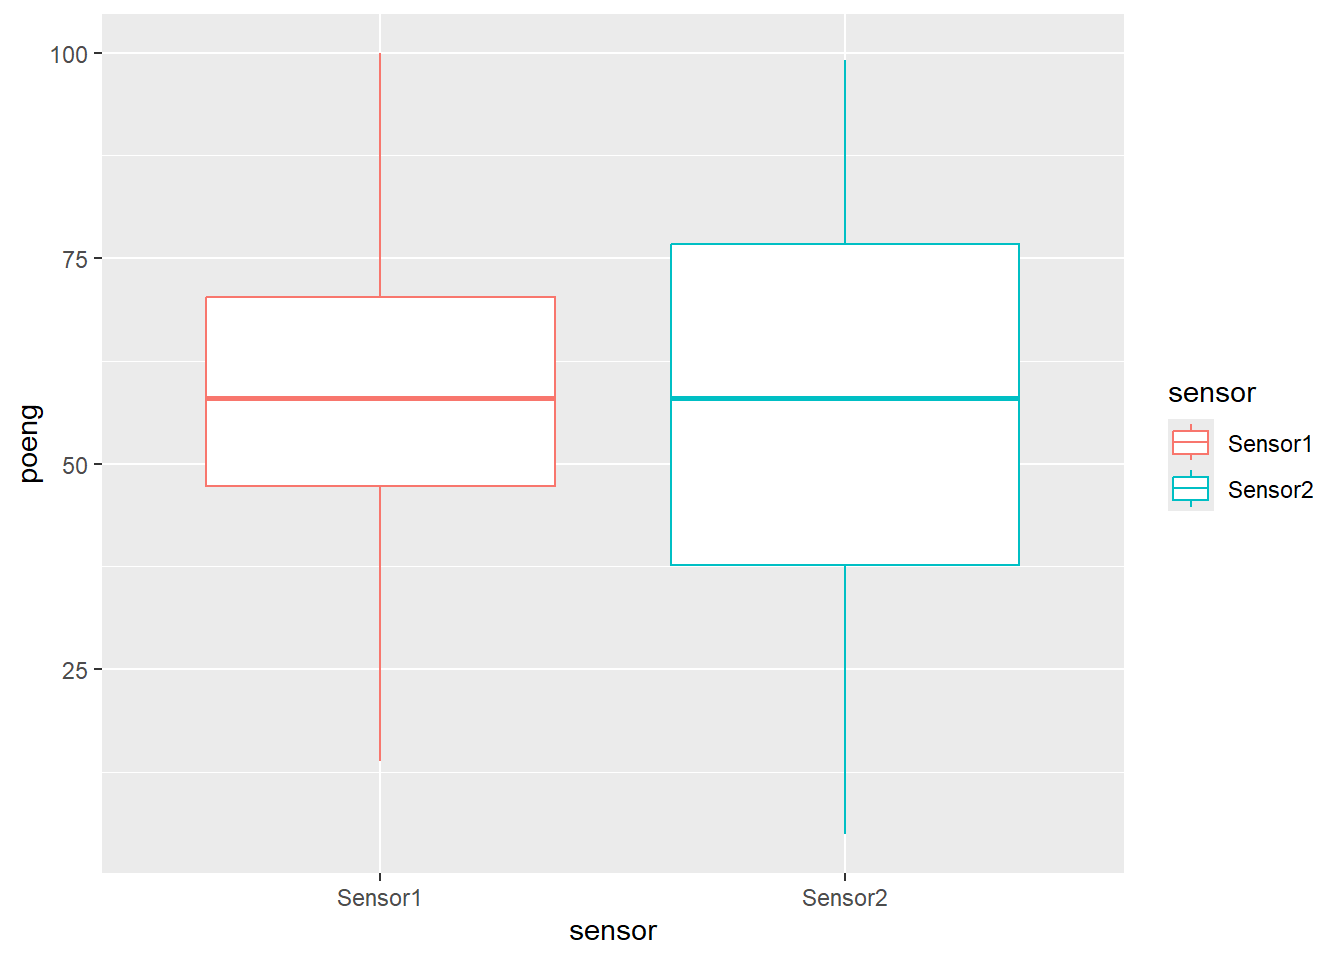
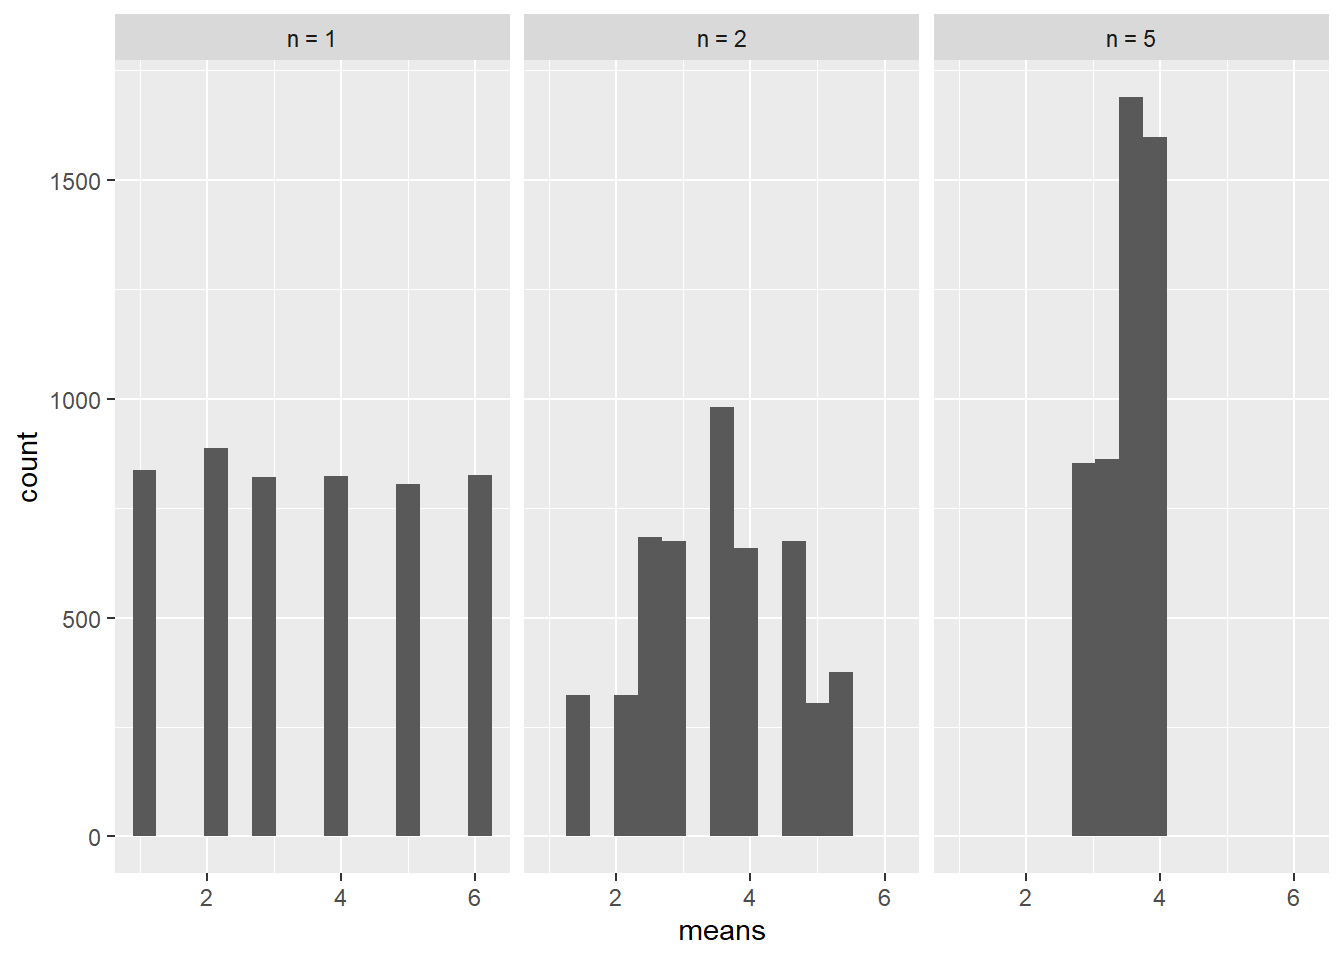
Build

diff --git a/docs/oppgaverdeskriptiv.html b/docs/oppgaverdeskriptiv.html
@@ -263,8 +263,8 @@ code span.wa { color: #60a0b0; font-weight: bold; font-style: italic; } /* Warni
 <div id="oppgaverdeskriptiv" class="section level2 hasAnchor" number="2.3">
 <h2><span class="header-section-number">2.3</span> Oppgaver<a href="oppgaverdeskriptiv.html#oppgaverdeskriptiv" class="anchor-section" aria-label="Anchor link to header"></a></h2>
 <p>Til de fleste oppgavene under ligger det et løsningsforslag som du folder ut ved å trykke på <strong>Løsning</strong>. Rådet vårt er at du først forsøker å løse oppgaven skikkelig på egen hånd, og heller bruker løsningsforslaget etterpå til å kontrollere svaret ditt (eller som en pekepinn dersom du står helt fast). Du lærer langt mer av å bryne deg på oppgaven selv enn av å lese løsningen.</p>
-<div id="standard-oppgaver" class="section level3 hasAnchor" number="2.3.1">
-<h3><span class="header-section-number">2.3.1</span> Standard oppgaver<a href="oppgaverdeskriptiv.html#standard-oppgaver" class="anchor-section" aria-label="Anchor link to header"></a></h3>
+<div id="teorioppgaver" class="section level3 hasAnchor" number="2.3.1">
+<h3><span class="header-section-number">2.3.1</span> Teorioppgaver<a href="oppgaverdeskriptiv.html#teorioppgaver" class="anchor-section" aria-label="Anchor link to header"></a></h3>
 <ol style="list-style-type: decimal">
 <li>Beskriv kort forskjellen mellom deskriptiv statistikk og statistisk inferens.</li>
 </ol>
@@ -382,7 +382,7 @@ Løsning
 <ol start="6" style="list-style-type: decimal">
 <li>MET4 ble et år rettet av to sensorer og et boxplot av poengene de ga sine respektive kandidater var som følger:</li>
 </ol>
-<p><img src="met4_files/figure-html/unnamed-chunk-36-1.png" alt="" width="672" /></p>
+<p><img src="met4_files/figure-html/unnamed-chunk-33-1.png" alt="" width="672" /></p>
 <p>Hva kan du si karakterfordelingen til de to sensorene?</p>
 <details>
 <summary>
@@ -395,7 +395,7 @@ Løsning
 <ol start="7" style="list-style-type: decimal">
 <li>Du er kvalitetsansvarlig for et produkt og samler inn data på levetiden i måneder til produktet. Et histogram over disse dataene ser ut som følger:</li>
 </ol>
-<p><img src="met4_files/figure-html/unnamed-chunk-37-1.png" alt="" width="672" /></p>
+<p><img src="met4_files/figure-html/unnamed-chunk-34-1.png" alt="" width="672" /></p>
 <p>Hva sier histogrammet deg om produktet?</p>
 <details>
 <summary>
@@ -424,7 +424,7 @@ Løsning
 <li>Betrakt spredningsplottene for datasett a-d under, og par hvert datasett med en av de følgende korrelasjonene:</li>
 </ol>
 <p><span class="math display">\[r_1 = -0.37,\quad r_2 = 0.81,\quad r_3 = -0.02,\quad r_4 = -0.96 \]</span></p>
-<p><img src="met4_files/figure-html/unnamed-chunk-38-1.png" alt="" width="672" /></p>
+<p><img src="met4_files/figure-html/unnamed-chunk-35-1.png" alt="" width="672" /></p>
 <details>
 <summary>
 Løsning
@@ -529,7 +529,7 @@ Løsning
 <blockquote>
 <p>Under ser du et histogram over gjennomsnittene dersom vi gjentar terningkasteksperimentet med henholdsvis <span class="math inline">\(n=1,2, 5\)</span> kast 2000 ganger. Allerede for <span class="math inline">\(n=5\)</span> ser vi at de fleste gjennomsnitt ligger nær det sanne gjennomsnittet på 3.5.</p>
 </blockquote>
-<p><img src="met4_files/figure-html/unnamed-chunk-39-1.png" alt="" width="672" /></p>
+<p><img src="met4_files/figure-html/unnamed-chunk-36-1.png" alt="" width="672" /></p>
 </details>
 <ol start="14" style="list-style-type: decimal">
 <li>La <span class="math inline">\(\hat{p}=X/n\)</span> være den estimerte suksessannsynligheten i et binomisk eksperiment <span class="math inline">\(X\)</span> med <span class="math inline">\(n=300\)</span> forsøk og (populasjons) suksessannsynlighet <span class="math inline">\(p\)</span>.</li>
@@ -917,6 +917,45 @@ P(\overline{X}_1 - \overline{X}_2 &gt; 0) &amp;= P\left(\frac{\overline{X}_1 - \
 \end{split}
 \end{equation*}\]</span></p>
 </blockquote>
+</details>
+</div>
+<div id="r-oppgaver" class="section level3 hasAnchor" number="2.3.3">
+<h3><span class="header-section-number">2.3.3</span> R-oppgaver<a href="oppgaverdeskriptiv.html#r-oppgaver" class="anchor-section" aria-label="Anchor link to header"></a></h3>
+<p>Her bruker vi R til å utforske teorien fra dette kapittelet i praksis.</p>
+<p><strong>Oppgave 1.</strong> Som demonstrert i forelesningen kan vi i R simulere standard normalfordelte observasjoner (altså normalfordelte observasjoner med <span class="math inline">\(\mu = 0\)</span> og <span class="math inline">\(\sigma^2 = 1\)</span>) med kommandoen <code>rnorm(n)</code>, der <code>n</code> er antallet observasjoner vi ønsker. For eksempel kan vi kjøre følgende kode for å generere 10 observasjoner (du vil helt sikkert få andre verdier):</p>
+<div class="sourceCode" id="cb36"><pre class="sourceCode r"><code class="sourceCode r"><span id="cb36-1"><a href="oppgaverdeskriptiv.html#cb36-1" tabindex="-1"></a>n <span class="ot">&lt;-</span> <span class="dv">10</span></span>
+<span id="cb36-2"><a href="oppgaverdeskriptiv.html#cb36-2" tabindex="-1"></a><span class="fu">rnorm</span>(n)</span></code></pre></div>
+<pre><code>##  [1] -0.4200645  0.3401406 -1.1119211 -0.2966509  1.2274762  0.6382994
+##  [7]  1.7668573  0.2938931 -0.1306290  0.2659678</code></pre>
+<p>Ved å skrive <code>mean(rnorm(n))</code> i stedet regner vi ut gjennomsnittet av observasjonene direkte.</p>
+<p>La oss gjøre dette 100 ganger og notere ned gjennomsnittet hver gang. I stedet for å gjøre det manuelt, kan vi skrive et lite program som gjør dette for oss ved å bruke en for-løkke. Det er ikke nødvendig (eller pensum) å forstå akkurat hvordan dette fungerer, men dersom du kjører følgende linjer vil du få en ny vektor <code>gj.snitt</code> som inneholder 100 slike gjennomsnitt:</p>
+<div class="sourceCode" id="cb38"><pre class="sourceCode r"><code class="sourceCode r"><span id="cb38-1"><a href="oppgaverdeskriptiv.html#cb38-1" tabindex="-1"></a>gj.snitt <span class="ot">&lt;-</span> <span class="fu">rep</span>(<span class="cn">NA</span>, <span class="dv">100</span>)</span>
+<span id="cb38-2"><a href="oppgaverdeskriptiv.html#cb38-2" tabindex="-1"></a><span class="cf">for</span>(i <span class="cf">in</span> <span class="dv">1</span><span class="sc">:</span><span class="dv">100</span>) {</span>
+<span id="cb38-3"><a href="oppgaverdeskriptiv.html#cb38-3" tabindex="-1"></a>    gj.snitt[i] <span class="ot">&lt;-</span> <span class="fu">mean</span>(<span class="fu">rnorm</span>(n))</span>
+<span id="cb38-4"><a href="oppgaverdeskriptiv.html#cb38-4" tabindex="-1"></a>}</span></code></pre></div>
+<p>Skriv ut denne vektoren og kontroller at det ser korrekt ut. Vi husker at funksjonen <code>sd()</code> regner ut standardavviket til en vektor. Hvilket tall forventer du å få ut dersom du nå kjører <code>sd(gj.snitt)</code> i konsollen? Stemmer det?</p>
+<details>
+<summary>
+Hint
+</summary>
+<p>Standardavviket til de enkelte observasjonene er <span class="math inline">\(\sigma = 1\)</span>, og standardavviket til et gjennomsnitt bestående av 10 observasjoner er <span class="math inline">\(\sigma/\sqrt{n} = 1/\sqrt{10} \approx 0.32\)</span>. Med andre ord skal utvalgsstandardavviket <code>sd(gj.snitt)</code> være omtrent lik 0.32, pluss/minus en estimeringsfeil.</p>
+</details>
+<p>Du kan gjerne regne ut 1000 gjennomsnitt i stedet for 100 ved å erstatte <code>100</code> med <code>1000</code> på to steder i koden over. Stemmer det bedre da?</p>
+<details>
+<summary>
+Hint
+</summary>
+<div class="sourceCode" id="cb39"><pre class="sourceCode r"><code class="sourceCode r"><span id="cb39-1"><a href="oppgaverdeskriptiv.html#cb39-1" tabindex="-1"></a>gj.snitt <span class="ot">&lt;-</span> <span class="fu">rep</span>(<span class="cn">NA</span>, <span class="dv">1000</span>)            <span class="co"># Lager en tom vektor med 1000 plasser</span></span>
+<span id="cb39-2"><a href="oppgaverdeskriptiv.html#cb39-2" tabindex="-1"></a><span class="cf">for</span>(i <span class="cf">in</span> <span class="dv">1</span><span class="sc">:</span><span class="dv">1000</span>) {                   <span class="co"># Fyller hver plass med et gjennomsnitt av</span></span>
+<span id="cb39-3"><a href="oppgaverdeskriptiv.html#cb39-3" tabindex="-1"></a>    gj.snitt[i] <span class="ot">&lt;-</span> <span class="fu">mean</span>(<span class="fu">rnorm</span>(n))    <span class="co"># 10 standard normalfordelte observasjoner.</span></span>
+<span id="cb39-4"><a href="oppgaverdeskriptiv.html#cb39-4" tabindex="-1"></a>}</span></code></pre></div>
+</details>
+<p>Prøv å forklare.</p>
+<details>
+<summary>
+Svar
+</summary>
+<p>Dette er ganske enkelt, men også litt vanskelig på en <em>inception</em>-aktig måte. På samme måte som at gjennomsnittet blir en mer og mer presis estimator for forventningsverdien når vi øker antall observasjoner (målt ved at standardavviket <span class="math inline">\(\sigma/\sqrt{n}\)</span> blir mindre når antall observasjoner <span class="math inline">\(n\)</span> blir større), blir utvalgsstandardavviket en mer og mer presis estimator av det sanne standardavviket når vi øker antall observasjoner. Altså: utvalgsstandardavviket har <em>også</em> et standardavvik som går mot null som <span class="math inline">\(1/\sqrt{n}\)</span> 😵</p>
 </details>
 </div>
 </div>

diff --git a/docs/utvalg-og-estimering.html b/docs/utvalg-og-estimering.html
@@ -410,44 +410,6 @@ code span.wa { color: #60a0b0; font-weight: bold; font-style: italic; } /* Warni
 <li>Hva vil det si at et estimator er konsistent?</li>
 </ol>
 </div>
-<div id="ekstra-ving-i-r" class="section level3 hasAnchor" number="2.2.11">
-<h3><span class="header-section-number">2.2.11</span> Ekstra øving i R<a href="utvalg-og-estimering.html#ekstra-ving-i-r" class="anchor-section" aria-label="Anchor link to header"></a></h3>
-<p>Som demonstrert i forelesningen kan vi i R simulere standard normalfordelte observasjoner (dvs normalfordelte observasjoner med <span class="math inline">\(\mu = 0\)</span> og <span class="math inline">\(\sigma^2 = 1\)</span>) med kommandoen <code>rnorm(n)</code>, der <code>n</code> er antallet observasjoner vi ønsker. For eksempel kan vi kjøre følgende kode for å generere 10 observasjoner (du vil helt sikkert få andre verdier):</p>
-<div class="sourceCode" id="cb36"><pre class="sourceCode r"><code class="sourceCode r"><span id="cb36-1"><a href="utvalg-og-estimering.html#cb36-1" tabindex="-1"></a>n <span class="ot">&lt;-</span> <span class="dv">10</span></span>
-<span id="cb36-2"><a href="utvalg-og-estimering.html#cb36-2" tabindex="-1"></a><span class="fu">rnorm</span>(n)</span></code></pre></div>
-<pre><code>##  [1] -0.05612874 -0.15579551 -1.47075238 -0.47815006  0.41794156  1.35867955
-##  [7] -0.10278773  0.38767161 -0.05380504 -1.37705956</code></pre>
-<p>Ved å skrive <code>mean(rnorm(n))</code> i stedet regner vi ut gjennomsnittet av observasjonene direkte.</p>
-<p>La oss gjøre dette 100 ganger og notere ned gjennomsnittet hver gang. I stedet for å gjøre det manuelt, kan vi skrive et lite program som gjør dette for oss ved å bruke en for-løkke. Det er ikke nødvendig (eller pensum) å forstå akkurat hvordan dette fungerer, men dersom du kjører følgende linjer vil du få en ny vektor <code>gj.snitt</code> som inneholder 100 slike gjennomsnitt:</p>
-<div class="sourceCode" id="cb38"><pre class="sourceCode r"><code class="sourceCode r"><span id="cb38-1"><a href="utvalg-og-estimering.html#cb38-1" tabindex="-1"></a>gj.snitt <span class="ot">&lt;-</span> <span class="fu">rep</span>(<span class="cn">NA</span>, <span class="dv">100</span>)</span>
-<span id="cb38-2"><a href="utvalg-og-estimering.html#cb38-2" tabindex="-1"></a><span class="cf">for</span>(i <span class="cf">in</span> <span class="dv">1</span><span class="sc">:</span><span class="dv">100</span>) {</span>
-<span id="cb38-3"><a href="utvalg-og-estimering.html#cb38-3" tabindex="-1"></a>    gj.snitt[i] <span class="ot">&lt;-</span> <span class="fu">mean</span>(<span class="fu">rnorm</span>(n))</span>
-<span id="cb38-4"><a href="utvalg-og-estimering.html#cb38-4" tabindex="-1"></a>}</span></code></pre></div>
-<p>Skriv ut denne vektoren og kontroller at det ser korrekt ut. Vi husker at funksjonen <code>sd()</code> regner ut standardavviket til en vektor. Hvilket tall forventer du å få ut dersom du nå kjører <code>sd(gj.snitt)</code> i konsollen? Stemmer det?</p>
-<details>
-<summary>
-Hint
-</summary>
-<p>Standardavviket til de enkelte observasjonene er <span class="math inline">\(\sigma = 1\)</span>, og standardavviket til et gjennomsnitt bestående av 10 observasjoner er <span class="math inline">\(\sigma/\sqrt{n} = 1/\sqrt{10} \approx 0.32\)</span>. Med andre ord skal det <em>empiriske</em> standardavviket <code>sd(gj.snitt)</code> være omtrent lik 0.32, pluss/minus en estimeringsfeil.</p>
-</details>
-<p>Du kan gjerne regne ut 1000 gjennomsnitt i stedet for 100 ved å erstatte erstatte <code>100</code> med <code>1000</code> på to steder i koden over. Stemmer det bedre da?</p>
-<details>
-<summary>
-Hint
-</summary>
-<div class="sourceCode" id="cb39"><pre class="sourceCode r"><code class="sourceCode r"><span id="cb39-1"><a href="utvalg-og-estimering.html#cb39-1" tabindex="-1"></a>gj.snitt <span class="ot">&lt;-</span> <span class="fu">rep</span>(<span class="cn">NA</span>, <span class="dv">1000</span>)            <span class="co"># Lager en tom vektor med 1000 plasser</span></span>
-<span id="cb39-2"><a href="utvalg-og-estimering.html#cb39-2" tabindex="-1"></a><span class="cf">for</span>(i <span class="cf">in</span> <span class="dv">1</span><span class="sc">:</span><span class="dv">1000</span>) {                   <span class="co"># Fyller hver plass med et gjennomsnitt av</span></span>
-<span id="cb39-3"><a href="utvalg-og-estimering.html#cb39-3" tabindex="-1"></a>    gj.snitt[i] <span class="ot">&lt;-</span> <span class="fu">mean</span>(<span class="fu">rnorm</span>(n))    <span class="co"># 10 standard normalfordelte observasjoner.</span></span>
-<span id="cb39-4"><a href="utvalg-og-estimering.html#cb39-4" tabindex="-1"></a>}</span></code></pre></div>
-</details>
-<p>Prøv å forklare.</p>
-<details>
-<summary>
-Svar
-</summary>
-<p>Dette er ganske enkelt, men også litt vanskelig på en <em>inception</em>-aktig måte. På samme måte som at gjennomsnittet blir en mer og mer presis estimator for forventningsverdien når vi øker antall observasjoner (målt ved at standardavviket <span class="math inline">\(\sigma/\sqrt{n}\)</span> blir mindre når antall obserasjoner <span class="math inline">\(n\)</span> blir større), blir det empiriske standardavviket en mer og mer presis estimator av det sanne standardavviket når vi øker antall observasjoner. Altså; det empiriske standardavviket har <em>også</em> et standardavvik som går mot null som <span class="math inline">\(1/\sqrt{n}\)</span> 😵</p>
-</details>
-</div>
 </div>
             </section>
 

diff --git a/docs/oppgaver.html b/docs/oppgaver.html
@@ -262,8 +262,8 @@ code span.wa { color: #60a0b0; font-weight: bold; font-style: italic; } /* Warni
             <section class="normal" id="section-">
 <div id="oppgaver" class="section level2 hasAnchor" number="3.5">
 <h2><span class="header-section-number">3.5</span> Oppgaver<a href="oppgaver.html#oppgaver" class="anchor-section" aria-label="Anchor link to header"></a></h2>
-<div id="standard-oppgaver-1" class="section level3 hasAnchor" number="3.5.1">
-<h3><span class="header-section-number">3.5.1</span> Standard oppgaver<a href="oppgaver.html#standard-oppgaver-1" class="anchor-section" aria-label="Anchor link to header"></a></h3>
+<div id="standard-oppgaver" class="section level3 hasAnchor" number="3.5.1">
+<h3><span class="header-section-number">3.5.1</span> Standard oppgaver<a href="oppgaver.html#standard-oppgaver" class="anchor-section" aria-label="Anchor link to header"></a></h3>
 <p>Introduksjon til hypotesetesting</p>
 <ol style="list-style-type: decimal">
 <li>For hvert av scenarioene i a og b, gjør følgende: